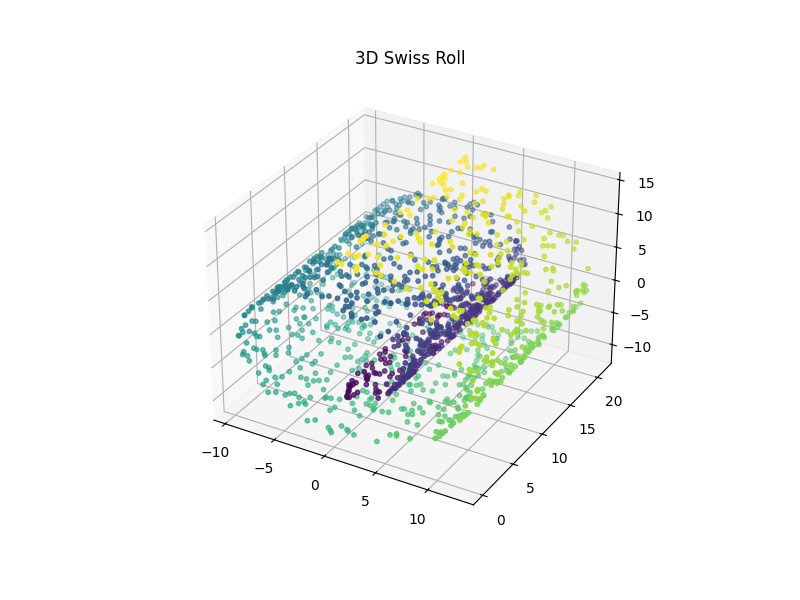
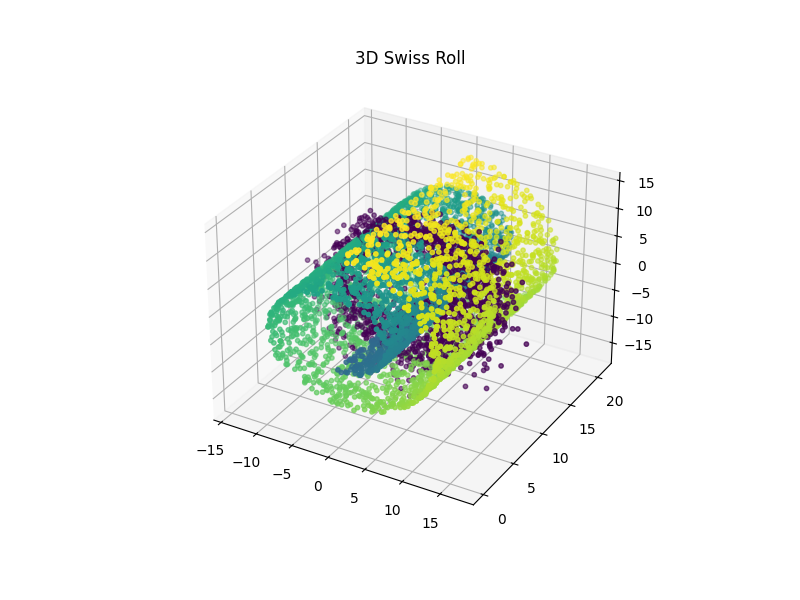
reducer: LLE, reg: RF, sampling: mixup

diff --git a/sandbox2.py b/sandbox2.py
@@ -1,0 +1,195 @@
+import numpy as np
+import matplotlib.pyplot as plt
+from sklearn.datasets import make_swiss_roll
+from sklearn.decomposition import KernelPCA
+from sklearn.svm import SVR
+from scipy.stats import multivariate_normal
+from sklearn.neighbors import KernelDensity
+from sklearn.manifold import LocallyLinearEmbedding
+from sklearn.ensemble import RandomForestRegressor
+
+def main():
+    ### Generate Swiss Roll ###
+    n_samples = 5000
+    noise = 0.05
+    data, color = make_swiss_roll(n_samples=n_samples, noise=noise)
+
+    ### Dimensionality reduction using KPCA ###
+    # reduced_data, kpca_model = kernel_pca_reduction(data, kernel='rbf', n_components=2, gamma=0.01, random_state=42)
+    reduced_data, lle_model = lle_reduction(data, n_components=2, n_neighbors=10)
+
+    ### Train Manifold Regressor ###
+    # regressors = train_manifold_regressor(reduced_data, data, kernel='rbf', C=10.0, gamma=0.1)
+    regressors = train_manifold_regressor_rf(reduced_data, data, n_estimators=100, max_depth=None)
+
+    ### Generate Low-Dimensional Data using KDE ###
+    # new_low_dim_data = generate_samples_from_kde(reduced_data, n_samples=5000)
+    new_low_dim_data = generate_samples_from_mixup(reduced_data, n_samples=5000)
+
+    ### Generate High Dimensional Data ###
+    generated_high_dim_data = generate_high_dim_data(regressors, new_low_dim_data)
+
+    ### Visualization ###
+    # Compare original and generated data in high-dimensional space
+    # plot_high_dim_comparison_with_overlay(data, color, generated_high_dim_data)
+    plot_high_dim_comparison(data, color, generated_high_dim_data)
+
+    # Compare low-dimensional data distribution
+    plot_low_dim_comparison(reduced_data, new_low_dim_data)
+
+def lle_reduction(data, n_components=2, n_neighbors=10):
+    """
+    局所線形埋め込み (LLE) を用いて次元削減を行う関数
+    """
+    lle = LocallyLinearEmbedding(n_neighbors=n_neighbors, n_components=n_components, method='standard')
+    reduced_data = lle.fit_transform(data)
+    return reduced_data, lle
+
+def kernel_pca_reduction(data, kernel='rbf', n_components=2, gamma=None, random_state=42):
+    kpca = KernelPCA(n_components=n_components, kernel=kernel, gamma=gamma)
+    reduced_data = kpca.fit_transform(data)
+    return reduced_data, kpca
+
+def train_manifold_regressor(low_dim_data, high_dim_data, kernel='rbf', C=1.0, epsilon=0.1, gamma=None):
+    regressors = []
+    for i in range(high_dim_data.shape[1]):
+        svr = SVR(kernel=kernel, C=C, epsilon=epsilon, gamma=gamma)
+        svr.fit(low_dim_data, high_dim_data[:, i])
+        regressors.append(svr)
+    return regressors
+
+def train_manifold_regressor_rf(low_dim_data, high_dim_data, n_estimators=100, max_depth=None, random_state=42):
+    """
+    ランダムフォレスト回帰を使用して高次元への写像を学習
+    """
+    regressors = []
+    for i in range(high_dim_data.shape[1]):
+        rf = RandomForestRegressor(n_estimators=n_estimators, max_depth=max_depth, random_state=random_state)
+        rf.fit(low_dim_data, high_dim_data[:, i])
+        regressors.append(rf)
+    return regressors
+
+def generate_high_dim_data(regressors, low_dim_data):
+    high_dim_data = np.zeros((low_dim_data.shape[0], len(regressors)))
+    for i, regressor in enumerate(regressors):
+        high_dim_data[:, i] = regressor.predict(low_dim_data)
+    return high_dim_data
+
+def plot_high_dim_comparison(original_data, original_color, generated_data):
+    """
+    元の高次元データと生成された高次元データの比較をプロット
+    """
+    fig = plt.figure(figsize=(12, 6))
+
+    # 元のデータ
+    ax1 = fig.add_subplot(121, projection='3d')
+    ax1.scatter(original_data[:, 0], original_data[:, 1], original_data[:, 2], c=original_color, cmap=plt.cm.viridis, s=10)
+    ax1.set_title("Original High-Dimensional Data")
+
+    # 生成されたデータ
+    ax2 = fig.add_subplot(122, projection='3d')
+    ax2.scatter(generated_data[:, 0], generated_data[:, 1], generated_data[:, 2], c='black', s=10, alpha=0.5)
+    ax2.set_title("Generated High-Dimensional Data")
+
+    plt.savefig("high_dim_comparison.png")
+    plt.show()
+
+def plot_high_dim_comparison_with_overlay(original_data, original_color, generated_data):
+    """
+    高次元データを元データと生成データで重ねてプロット
+    """
+    fig = plt.figure(figsize=(8, 6))
+    ax = fig.add_subplot(111, projection='3d')
+
+    # 元の高次元データをプロット
+    ax.scatter(original_data[:, 0], original_data[:, 1], original_data[:, 2], 
+               c=original_color, cmap=plt.cm.viridis, s=10, label="Original Data", alpha=0.5)
+
+    # 生成された高次元データをプロット
+    ax.scatter(generated_data[:, 0], generated_data[:, 1], generated_data[:, 2], 
+               c='black', s=10, label="Generated Data", alpha=0.7)
+
+    ax.set_title("Overlay of Original and Generated High-Dimensional Data")
+    ax.legend()
+    plt.savefig("high_dim_overlay_comparison.png")
+    plt.show()
+
+def plot_high_dim_comparison_side_by_side_synced(original_data, original_color, generated_data):
+    """
+    高次元データを元データと生成データで横並びにプロットし、同期して動かす
+    """
+    from mpl_toolkits.mplot3d import Axes3D  # 必要なモジュールをインポート
+
+    fig = plt.figure(figsize=(16, 6))
+
+    # 元の高次元データをプロット
+    ax1 = fig.add_subplot(121, projection='3d')
+    scatter1 = ax1.scatter(original_data[:, 0], original_data[:, 1], original_data[:, 2],
+                           c=original_color, cmap=plt.cm.viridis, s=10, alpha=0.5)
+    ax1.set_title("Original High-Dimensional Data")
+    ax1.set_xlabel("X")
+    ax1.set_ylabel("Y")
+    ax1.set_zlabel("Z")
+
+    # 生成された高次元データをプロット
+    ax2 = fig.add_subplot(122, projection='3d')
+    scatter2 = ax2.scatter(generated_data[:, 0], generated_data[:, 1], generated_data[:, 2],
+                           c='black', s=10, alpha=0.7)
+    ax2.set_title("Generated High-Dimensional Data")
+    ax2.set_xlabel("X")
+    ax2.set_ylabel("Y")
+    ax2.set_zlabel("Z")
+
+    # 初期同期: 両方の視点を一致させる
+    def on_move(event):
+        if event.inaxes == ax1:
+            ax2.view_init(elev=ax1.elev, azim=ax1.azim)
+            fig.canvas.draw_idle()
+        elif event.inaxes == ax2:
+            ax1.view_init(elev=ax2.elev, azim=ax2.azim)
+            fig.canvas.draw_idle()
+
+    # イベントリスナーを登録
+    fig.canvas.mpl_connect('motion_notify_event', on_move)
+
+    plt.tight_layout()
+    plt.savefig("high_dim_side_by_side_synced_comparison.png")
+    plt.show()
+
+
+def plot_low_dim_comparison(original_low_dim_data, generated_low_dim_data):
+    """
+    元の低次元データと生成された低次元データの分布を比較
+    """
+    plt.figure(figsize=(8, 6))
+
+    # 元の低次元データ
+    plt.scatter(original_low_dim_data[:, 0], original_low_dim_data[:, 1], label='Original Low-Dim Data', alpha=0.5)
+
+    # 生成された低次元データ
+    plt.scatter(generated_low_dim_data[:, 0], generated_low_dim_data[:, 1], label='Generated Low-Dim Data (KDE)', alpha=0.5, color='black')
+
+    plt.xlabel("Component 1")
+    plt.ylabel("Component 2")
+    plt.title("Low-Dimensional Data Comparison")
+    plt.legend()
+    plt.savefig("low_dim_comparison.png")
+    plt.show()
+
+def generate_samples_from_kde(low_dim_data, n_samples, bandwidth=0.1):
+    kde = KernelDensity(kernel='gaussian', bandwidth=bandwidth)
+    kde.fit(low_dim_data)
+    new_samples = kde.sample(n_samples)
+    return new_samples
+
+def generate_samples_from_mixup(low_dim_data, n_samples, alpha=0.2):
+    """
+    Mixupによる低次元データの生成
+    """
+    indices = np.random.randint(0, low_dim_data.shape[0], size=(n_samples, 2))
+    lambda_ = np.random.beta(alpha, alpha, size=n_samples).reshape(-1, 1)
+    new_samples = (1 - lambda_) * low_dim_data[indices[:, 0]] + lambda_ * low_dim_data[indices[:, 1]]
+    return new_samples
+
+if __name__ == "__main__":
+    main()

diff --git a/sandbox.py b/sandbox.py
@@ -4,31 +4,41 @@ from sklearn.datasets import make_swiss_roll
 from sklearn.decomposition import KernelPCA
 from sklearn.svm import SVR
 from scipy.stats import multivariate_normal
+from sklearn.neighbors import KernelDensity
 
 def main():
     ### Generate Swiss Roll ###
-    n_samples   = 1500
+    n_samples   = 5000
     noise       = 0.05 
     data, color = make_swiss_roll(n_samples=n_samples, noise=noise)
 
+    ### Plot Swiss Roll ###
+    # plot_swiss_roll(data, color)
+
     ### Dimensionality reduction using KPCA ###
     reduced_data, kpca_model = kernel_pca_reduction(data, kernel='rbf', n_components=2, gamma=0.01, random_state=42)
-    print(reduced_data.shape)
-    plt.scatter(reduced_data[:, 0], reduced_data[:, 1], label='Original Data', alpha=0.7)
 
-    plt.xlabel("Component 1")
-    plt.ylabel("Component 2")
-    plt.show()
+    ### Train Manifold Regressor ###
+    regressors = train_manifold_regressor(reduced_data, data, kernel='rbf', C=10.0, gamma=0.1)
+
+    # 乱数で新しい低次元データを生成
+    new_low_dim_data = np.random.rand(100, 2)  
+    # 確率密度推定で新しい低次元データを生成
+    new_low_dim_data = generate_samples_from_kde(reduced_data, n_samples=1500)
+
+    ### Generate High Dimensional Data ###
+    generated_high_dim_data = generate_high_dim_data(regressors, new_low_dim_data)
+
+    ### Plot Swiss Roll Reduced ###
+    reduced_data = np.vstack([reduced_data, new_low_dim_data])
+    plot_swiss_roll_reduced(reduced_data)
+
+    ### Plot Original and Generated High Dimensional Data ###
+    data = np.vstack([data, generated_high_dim_data])
+    # color = np.hstack([color, np.zeros(1500)])
+    plot_swiss_roll(data, color)
 
 
-
-
-    ### Plot Swiss Roll ###
-    # fig = plt.figure(figsize=(8, 6))
-    # ax = fig.add_subplot(111, projection='3d')
-    # ax.scatter(data[:, 0], data[:, 1], data[:, 2], c=color, cmap=plt.cm.viridis, s=10)
-    # ax.set_title("3D Swiss Roll")
-    # plt.savefig("swiss_roll.png")
 
 def kernel_pca_reduction(data, kernel='rbf', n_components=2, gamma=None, random_state=42):
     """
@@ -40,13 +50,14 @@ def kernel_pca_reduction(data, kernel='rbf', n_components=2, gamma=None, random_
 
 def train_manifold_regressor(low_dim_data, high_dim_data, kernel='rbf', C=1.0, epsilon=0.1, gamma=None):
     """
-    低次元データから高次元データへの写像を学習する回帰モデルを構築
+    低次元データから高次元データへの写像を学習する回帰モデル(SVM回帰)を構築
     """
     regressors = []
     for i in range(high_dim_data.shape[1]):
         svr = SVR(kernel=kernel, C=C, epsilon=epsilon, gamma=gamma)
         svr.fit(low_dim_data, high_dim_data[:, i])
         regressors.append(svr)
+    print(regressors)
     return regressors
 
 def generate_high_dim_data(regressors, low_dim_data):
@@ -63,6 +74,28 @@ def sample_from_gaussian(mean, covariance, n_samples):
     ガウシアン分布から低次元データをサンプリング
     """
     return multivariate_normal.rvs(mean=mean, cov=covariance, size=n_samples)
+
+def plot_swiss_roll(data, color):
+    fig = plt.figure(figsize=(8, 6))
+    ax = fig.add_subplot(111, projection='3d')
+    ax.scatter(data[:, 0], data[:, 1], data[:, 2], c=color, cmap=plt.cm.viridis, s=10)
+    ax.set_title("3D Swiss Roll")
+    plt.savefig("swiss_roll.png")
+
+def plot_swiss_roll_reduced(data):
+    plt.scatter(data[:, 0], data[:, 1], label='Original Data', alpha=0.7)
+    plt.xlabel("Component 1")
+    plt.ylabel("Component 2")
+    plt.savefig('swiss_roll_reduced.png')
+
+def generate_samples_from_kde(low_dim_data, n_samples, bandwidth=0.1):
+    """
+    KDEで低次元データからサンプルを生成
+    """
+    kde = KernelDensity(kernel='gaussian', bandwidth=bandwidth)
+    kde.fit(low_dim_data)
+    new_samples = kde.sample(n_samples)
+    return new_samples
 
 if __name__ == "__main__":
     main()
